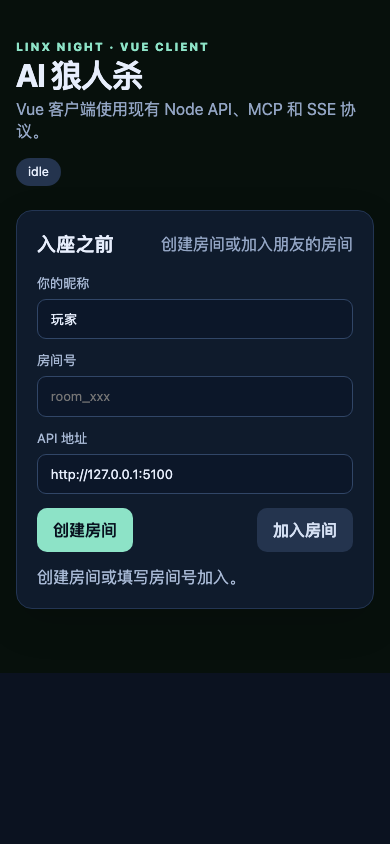
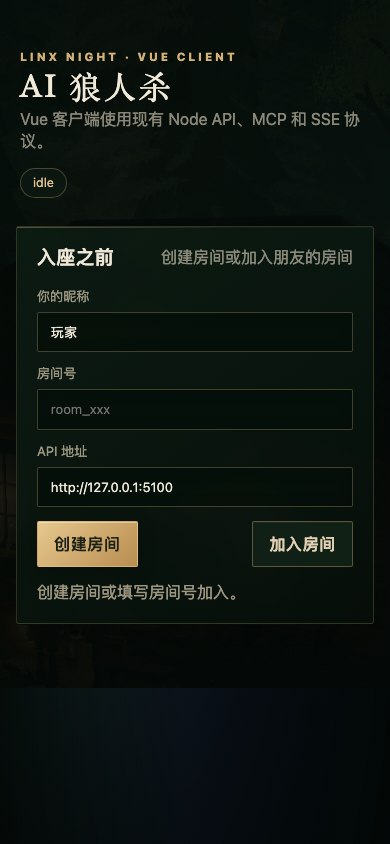
fix(client): fully apply woodland in-game visual theme

diff --git a/apps/client-vue/src/style.css b/apps/client-vue/src/style.css
@@ -59,7 +59,7 @@ code { color: #8de3c7; }
 
 /* Forest cabin launch scene */
 :root { --forest-ink: #f0e9d9; --forest-muted: rgba(236,230,214,.66); --forest-gold: #d4b27a; --forest-line: rgba(224,210,180,.22); }
-body { background: #07100c; }
+body { background: linear-gradient(180deg, rgba(3,10,7,.84), rgba(3,8,6,.94)), url('/assets/splash/forest-cabin-preview.png') center top / cover fixed no-repeat, #07100c; }
 .game-shell { opacity: 0; transform: translateY(18px); pointer-events: none; transition: opacity .75s ease, transform .75s cubic-bezier(.16,1,.3,1); }
 .game-shell-visible { opacity: 1; transform: none; pointer-events: auto; }
 .forest-splash { position: fixed; inset: 0; z-index: 50; overflow: hidden; display: grid; place-items: center; color: var(--forest-ink); background: #07100c; }
@@ -100,3 +100,97 @@ body { background: #07100c; }
   .forest-splash-mist { animation:none; }
   .game-shell,.splash-fade-enter-active,.splash-fade-leave-active { transition:none; }
 }
+
+/* In-game woodland theme: deliberately overrides the old blue client skin. */
+body {
+  color: #eee7d8;
+  background:
+    linear-gradient(180deg, rgba(3, 10, 7, .82), rgba(3, 8, 6, .94)),
+    url('/assets/splash/forest-cabin-preview.png') center top / cover fixed no-repeat,
+    #07100c;
+}
+body::before {
+  content: '';
+  position: fixed;
+  inset: 0;
+  z-index: -2;
+  pointer-events: none;
+  background:
+    radial-gradient(ellipse at 72% 6%, rgba(203, 157, 87, .16), transparent 34%),
+    radial-gradient(ellipse at 16% 76%, rgba(71, 122, 104, .14), transparent 38%),
+    linear-gradient(90deg, rgba(2, 8, 5, .86), rgba(2, 8, 5, .28) 48%, rgba(2, 8, 5, .8));
+}
+body::after {
+  content: '';
+  position: fixed;
+  inset: 0;
+  z-index: -1;
+  pointer-events: none;
+  background: radial-gradient(ellipse at center, transparent 36%, rgba(1, 5, 3, .62) 100%);
+}
+.shell { position: relative; z-index: 1; max-width: 1180px; }
+.hero { padding: 10px 4px 4px; }
+.hero h1 { color: #f1e9d7; font-family: Georgia, "Songti SC", serif; font-weight: 400; letter-spacing: .08em; text-shadow: 0 3px 22px rgba(0,0,0,.55); }
+.hero .muted, .phase-meta, .muted, small { color: rgba(226, 217, 195, .6); }
+.eyebrow { color: #d4b27a; letter-spacing: .25em; }
+.connection { color: #dec18b; border: 1px solid rgba(212,178,122,.32); background: rgba(11,24,16,.66); }
+.connection.connected { color: #b9d4b2; }
+.connection.error { color: #e59a81; }
+.card {
+  margin-top: 18px;
+  border: 1px solid rgba(212,178,122,.2);
+  border-radius: 3px;
+  background: linear-gradient(145deg, rgba(13,29,20,.88), rgba(6,15,10,.78));
+  box-shadow: 0 20px 50px rgba(0,0,0,.28), inset 0 1px 0 rgba(255,242,210,.035);
+  backdrop-filter: blur(12px) saturate(.92);
+}
+.card::before { content: ''; display: block; height: 1px; margin: -20px -20px 16px; background: linear-gradient(90deg, rgba(212,178,122,.35), transparent 62%); }
+.phase-card { border-color: rgba(212,178,122,.3); background: linear-gradient(135deg, rgba(37,37,23,.78), rgba(7,17,11,.9)); }
+.phase-card h2 { color: #f0e9d9; font-family: Georgia, "Songti SC", serif; font-weight: 400; }
+button {
+  border: 1px solid rgba(220,188,125,.55);
+  border-radius: 2px;
+  color: #1c2115;
+  background: linear-gradient(135deg, #e6c88e, #b98d50);
+  box-shadow: 0 5px 18px rgba(0,0,0,.24), inset 0 1px rgba(255,248,221,.45);
+  letter-spacing: .04em;
+  transition: transform .22s ease, filter .22s ease, box-shadow .22s ease;
+}
+button:hover { filter: brightness(1.08) saturate(1.04); transform: translateY(-1px); box-shadow: 0 8px 24px rgba(0,0,0,.3), 0 0 0 1px rgba(225,195,137,.18); }
+button.secondary { color: #e1d2b4; border-color: rgba(212,178,122,.38); background: rgba(20,38,25,.72); box-shadow: inset 0 1px rgba(255,255,255,.04); }
+button:disabled { filter: grayscale(.55); }
+input, textarea, select {
+  color: #f0eadb;
+  border: 1px solid rgba(159,143,104,.38);
+  border-radius: 2px;
+  background: rgba(6,16,10,.84);
+  box-shadow: inset 0 1px 14px rgba(0,0,0,.18);
+}
+input:focus, textarea:focus, select:focus { border-color: #d4b27a; box-shadow: 0 0 0 2px rgba(212,178,122,.1); }
+label { color: rgba(218,205,177,.7); }
+.message { color: rgba(222,208,179,.7); }
+.seats { gap: 12px; }
+.seat {
+  min-height: 102px;
+  border-color: rgba(138,143,96,.25);
+  border-radius: 3px;
+  background: linear-gradient(145deg, rgba(19,40,27,.9), rgba(7,18,11,.84));
+  box-shadow: inset 0 1px rgba(228,210,158,.04), 0 10px 26px rgba(0,0,0,.2);
+}
+.seat.active { border-color: #d4b27a; box-shadow: inset 0 0 0 1px rgba(212,178,122,.65), 0 0 26px rgba(212,178,122,.08); }
+.seat-avatar { width: 52px; height: 52px; border-color: rgba(212,178,122,.58); box-shadow: 0 6px 18px rgba(0,0,0,.32); }
+.seat strong { color: #d4b27a; }
+.seat-copy span { color: #eee7d8; }
+.seat small { color: rgba(203,211,181,.58); }
+.seat .link-button { color: #d4b27a; }
+.action-card { border-color: rgba(155,172,120,.42); background: linear-gradient(145deg, rgba(28,49,31,.92), rgba(7,18,11,.86)); }
+.private-card { border-color: rgba(183,143,91,.42); background: linear-gradient(135deg, rgba(56,43,27,.78), rgba(8,20,12,.9)); }
+.private-card p { color: rgba(231,221,199,.76); }
+.host-task { border-left-color: #d4b27a; color: #e2d7bd; background: rgba(8,18,11,.62); }
+.voice-panel { border-color: rgba(152,156,105,.26); background: rgba(7,19,12,.62); }
+.events { color: rgba(221,211,189,.72); }
+.events code, code { color: #d4b27a; }
+.result-card { border-color: rgba(212,178,122,.38); background: linear-gradient(135deg, rgba(49,39,25,.8), rgba(7,17,11,.9)); }
+.result-card pre { color: #d9e1c7; background: rgba(4,12,7,.86); }
+.live-dot { color: #d4b27a; }
+
